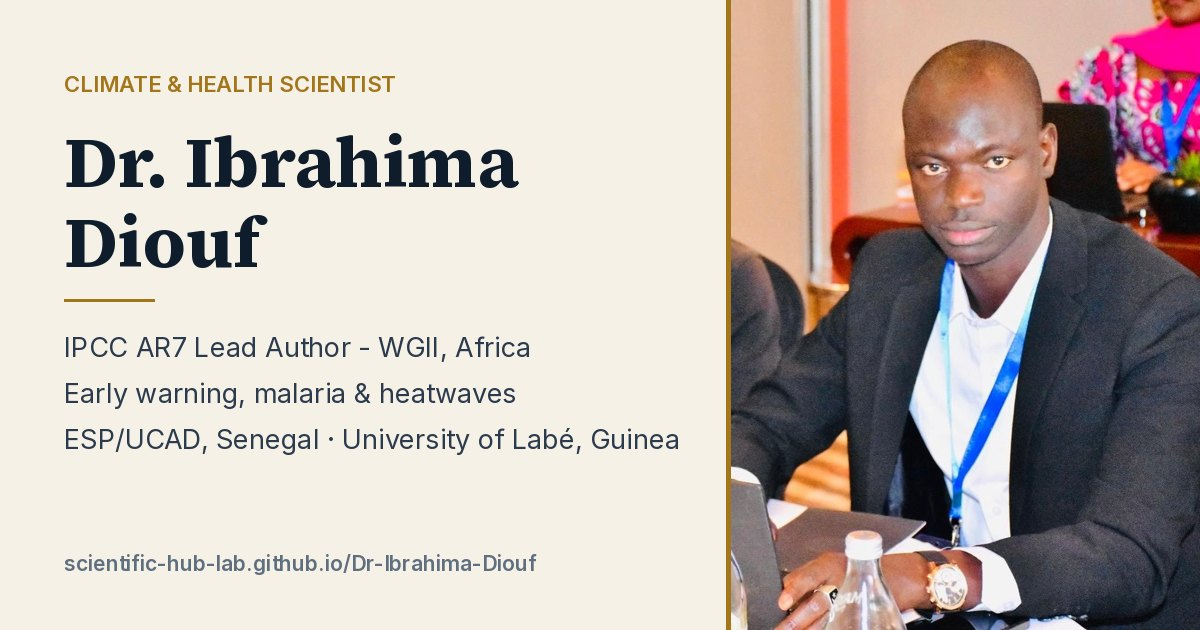
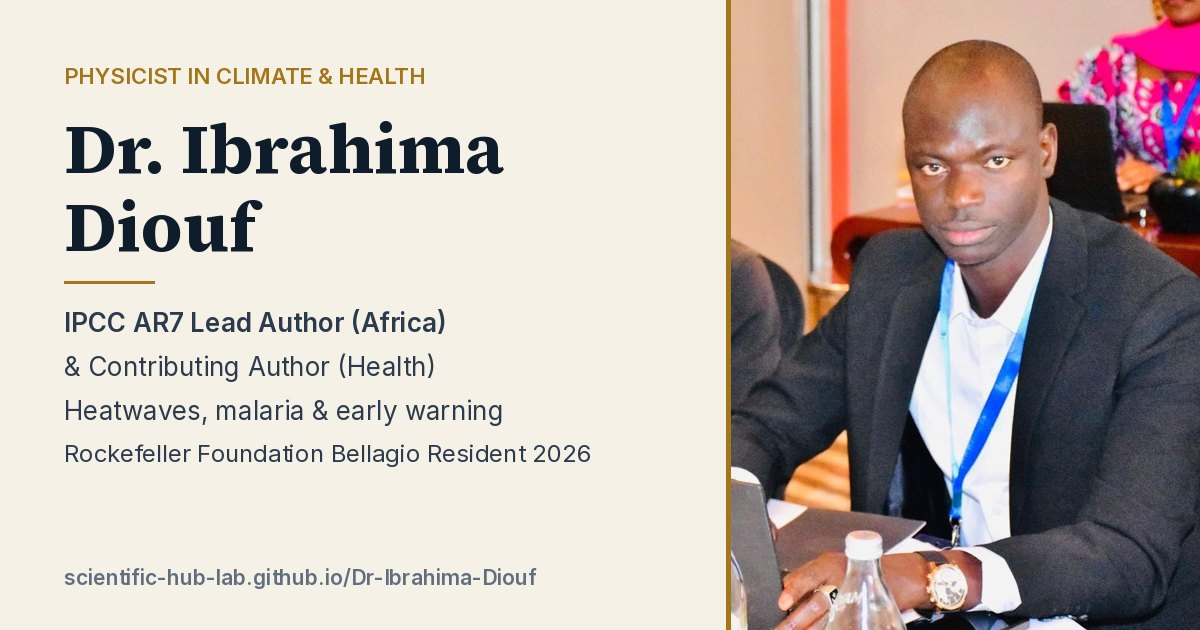
Add files via upload

Changed region(s): [[0.0308, 0.181, 0.5858, 0.754], [0.0308, 0.8746, 0.4625, 0.9349], [0.0308, 0.0905, 0.37, 0.1508]]

diff --git a/index.html b/index.html
@@ -3,10 +3,10 @@
 <head>
 <meta charset="utf-8" />
 <meta name="viewport" content="width=device-width, initial-scale=1" />
-<title>Dr. Ibrahima DIOUF — Climate & Health Scientist</title>
-<meta name="description" content="Dr. Ibrahima Diouf — climate &amp; health scientist, IPCC AR7 Lead Author (WGII, Africa chapter), lecturer-researcher and international consultant." />
-<meta property="og:title" content="Dr. Ibrahima DIOUF — Climate & Health Scientist" />
-<meta property="og:description" content="Climat & santé, alerte précoce, modélisation du paludisme, adaptation, tableaux de bord et publications." />
+<title>Dr. Ibrahima DIOUF — Physicist in Climate & Health</title>
+<meta name="description" content="Dr. Ibrahima Diouf — physicist in climate &amp; health, IPCC AR7 Lead Author (Africa) and Contributing Author (Health). Heatwaves, malaria and early warning systems for Africa. Rockefeller Foundation Bellagio Resident 2026." />
+<meta property="og:title" content="Dr. Ibrahima DIOUF — Physicist in Climate &amp; Health" />
+<meta property="og:description" content="IPCC AR7 Lead Author (Africa) &amp; Contributing Author (Health) | Heatwaves, Malaria &amp; Early Warning Systems for Africa | Rockefeller Foundation Bellagio Resident 2026" />
 <meta property="og:type" content="profile" />
 <meta property="og:url" content="https://scientific-hub-lab.github.io/Dr-Ibrahima-Diouf/" />
 <meta property="og:image" content="https://scientific-hub-lab.github.io/Dr-Ibrahima-Diouf/og-image.jpg" />
@@ -14,7 +14,7 @@
 <meta property="og:image:height" content="630" />
 <meta property="og:image:alt" content="Dr. Ibrahima Diouf - Climate &amp; Health Scientist, IPCC AR7 Lead Author" />
 <meta name="twitter:card" content="summary_large_image" />
-<meta name="twitter:title" content="Dr. Ibrahima DIOUF - Climate &amp; Health Scientist" />
+<meta name="twitter:title" content="Dr. Ibrahima DIOUF - Physicist in Climate &amp; Health" />
 <meta name="twitter:image" content="https://scientific-hub-lab.github.io/Dr-Ibrahima-Diouf/og-image.jpg" />
 <link rel="canonical" href="https://scientific-hub-lab.github.io/Dr-Ibrahima-Diouf/" />
 <link rel="icon" type="image/png" href="favicon.png" />
@@ -25,7 +25,7 @@
   "@type": "Person",
   "name": "Ibrahima Diouf",
   "honorificPrefix": "Dr.",
-  "jobTitle": "Climate & Health Scientist; IPCC AR7 Lead Author (WGII, Chapter 7 Africa)",
+  "jobTitle": "Physicist in Climate & Health; IPCC AR7 Lead Author (WGII, Chapter 7 Africa) and Contributing Author (Health)",
   "url": "https://scientific-hub-lab.github.io/Dr-Ibrahima-Diouf/",
   "image": "https://scientific-hub-lab.github.io/Dr-Ibrahima-Diouf/portrait.jpg",
   "affiliation": [
@@ -34,7 +34,8 @@
   ],
   "alumniOf": {"@type": "CollegeOrUniversity", "name": "Cheikh Anta Diop University (UCAD)"},
   "nationality": "Senegalese",
-  "knowsAbout": ["Climate and health", "Malaria modelling", "Early warning systems", "Heatwaves", "Extreme precipitation", "West Africa", "Climate services"],
+  "award": "Rockefeller Foundation Bellagio Center Residency 2026",
+  "knowsAbout": ["Physics", "Climate and health", "Malaria modelling", "Early warning systems", "Heatwaves", "Extreme precipitation", "West Africa", "Climate services"],
   "sameAs": [
     "https://scholar.google.com/citations?user=phsMm7sAAAAJ",
     "https://orcid.org/0000-0002-3157-0925",
@@ -505,7 +506,7 @@ footer.site{border-top:1px solid var(--rule);padding:40px 0;background:var(--pap
         <img src="avatar.jpg" width="46" height="46" alt="Dr. Ibrahima Diouf">
         <span>
           <span class="nm">Dr. Ibrahima Diouf</span><br>
-          <span class="rl" data-i18n="hdr.role">Climate &amp; Health Scientist</span>
+          <span class="rl" data-i18n="hdr.role">Physicien, climat &amp; santé</span>
         </span>
       </a>
       <nav class="main" id="nav">
@@ -1501,7 +1502,7 @@ footer.site{border-top:1px solid var(--rule);padding:40px 0;background:var(--pap
 <footer class="site">
   <div class="wrap">
     <div class="frow">
-      <div><span class="fname">Dr. Ibrahima Diouf</span> — <span data-i18n="ft.role">Climate &amp; Health Scientist</span></div>
+      <div><span class="fname">Dr. Ibrahima Diouf</span> — <span data-i18n="ft.role">Physicien, climat &amp; santé</span></div>
       <div>© <span id="yr"></span> · <span data-i18n="ft.rights">Tous droits réservés</span> · <a href="#top" data-i18n="ft.top">Haut de page ↑</a></div>
     </div>
   </div>
@@ -1588,7 +1589,7 @@ applyFilter('all');
 const I18N = {
   fr: {},
   en: {
-    'hdr.role':'Climate &amp; Health Scientist',
+    'hdr.role':'Physicist in Climate &amp; Health',
     'nav.1':'Profile','nav.2':'Research','nav.3':'Tools','nav.4':'Impact','nav.5':'Publications','nav.6':'Career','nav.7':'Contact',
     'hero.kicker':'IPCC AR7 Lead Author · Chapter 7 — Africa, WGII',
     'hero.h1':'Turning climate data into <em>public-health decisions</em>.',
@@ -1752,7 +1753,7 @@ const I18N = {
     'g.f6':"Academic life",
     'g.f4':"Bellagio residency",
     'g.more':"See all photos",
-    'ft.role':'Climate &amp; Health Scientist','ft.rights':'All rights reserved','ft.top':'Back to top ↑'
+    'ft.role':'Physicist in Climate &amp; Health','ft.rights':'All rights reserved','ft.top':'Back to top ↑'
   }
 };
 document.querySelectorAll('[data-i18n]').forEach(el => { const k = el.getAttribute('data-i18n'); if(I18N.fr[k] === undefined) I18N.fr[k] = el.innerHTML; });
@@ -1809,7 +1810,8 @@ function renderLive(fr){
   ol.innerHTML = rec.map(a => {
     const c = a.cites ? ` · ${a.cites} ${fr ? (a.cites > 1 ? 'citations' : 'citation') : (a.cites > 1 ? 'citations' : 'citation')}` : '';
     const t = a.link ? `<a href="${esc(a.link)}" target="_blank" rel="noopener">${esc(a.title)}</a>` : `<span>${esc(a.title)}</span>`;
-    return `<li><span class="y">${esc(a.year || '')}</span><div>${t}<div class="v">${esc(a.venue || a.authors || '')}${c}</div></div></li>`;
+    const v = String(a.venue || a.authors || '').replace(/,\s*(19|20)\d{2}\s*$/, '');
+    return `<li><span class="y">${esc(a.year || '')}</span><div>${t}<div class="v">${esc(v)}${c}</div></div></li>`;
   }).join('');
   if(!rec.length) ol.parentElement.hidden = true;
 }
